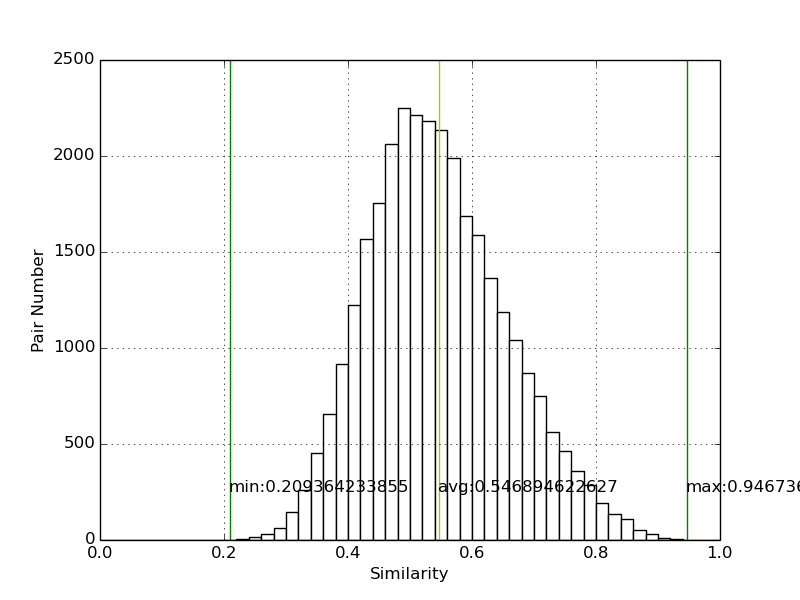
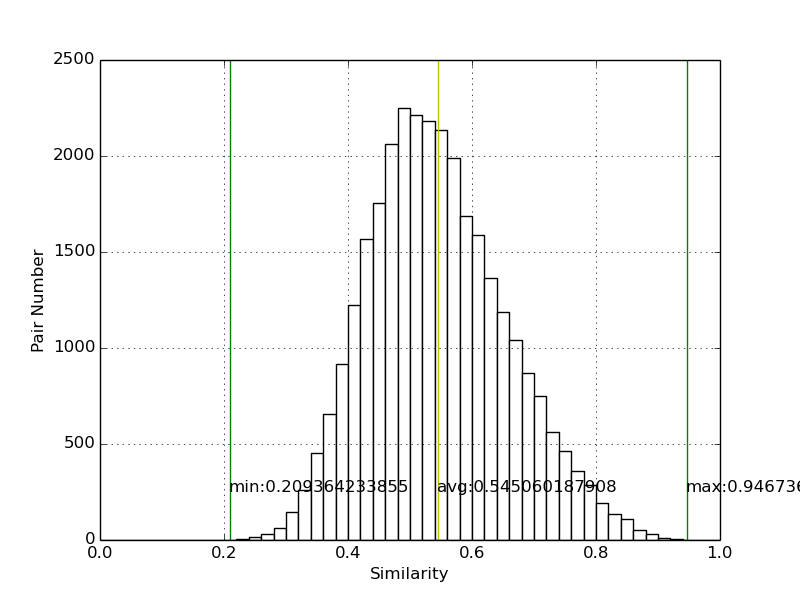
similarity distribution

Changed region(s): [[0.5312, 0.12, 0.7812, 0.9]]

diff --git a/vec_util/ingredient_vectors.py b/vec_util/ingredient_vectors.py
@@ -1,20 +1,41 @@
+#system module
 import numpy as np
 import os
 import sys
 from collections import defaultdict
+from gensim.models import word2vec as w2v
+from gensim import models
+from sklearn.metrics.pairwise import cosine_similarity
+from scipy.spatial.distance import dice
+from scipy.spatial.distance import pdist,squareform
+#local module
 sys.path.append('../vec_util/')
 from matrix import get_common_ingr_matrix
-from plotting import plot_similarity_by_category
-
+from plotting import plot_similarity_by_category,plot_similarity_distribution
+import pickle
+import Queue
+from threading import Thread
 
 ingredient_file = os.path.realpath(os.path.join(os.getcwd(),'../data/ingredients_major.txt'))
 recipe_file = os.path.realpath(os.path.join(os.getcwd(),'../data/recipes_major.txt'))
 reci_ingr_matrix_file = os.path.realpath(os.path.join(os.getcwd(),'../data/reci_ingr_matrix.txt'))
-vec_file = ''
+
 similarity_matrix_file = os.path.realpath(os.path.join(os.getcwd(),'../data/similarity_matrix.txt'))
+normalized_similarity_matrix_file = os.path.realpath(os.path.join(os.getcwd(),'../data/normalized_similarity_matrix.txt'))
+cosine_similarity_matrix_file = os.path.realpath(os.path.join(os.getcwd(),'../data/cosine_similarity_matrix.txt'))
+angular_similarity_matrix_file = os.path.realpath(os.path.join(os.getcwd(),'../data/angular_similarity_matrix.txt'))
+
+ingredient_dict_file = os.path.realpath(os.path.join(os.getcwd(),'../data/ingredient_dict.pickle'))
+recipe_dict_file = os.path.realpath(os.path.join(os.getcwd(),'../data/recipe_dict.pickle'))
+
+best_vector_file = os.path.realpath(os.path.join(os.getcwd(),'../tune_size/model_10'))
+
 
 if not os.path.isfile(reci_ingr_matrix_file):
 	matrix_gen(ingredient_file, recipe_file)
+
+# if not os.path.isfile(cosine_similarity_matrix_file):
+# 	gensim_matrix_gen()
 
 #read recipe ingredient matrix (52375, 248) from file
 reci_ingr_matrix = np.genfromtxt(reci_ingr_matrix_file,
@@ -44,56 +65,202 @@ similarity_matrix = np.genfromtxt(similarity_matrix_file,
 		autostrip=True,skip_header=0)
 
 def main():
-	# avg_sim = cal_original_similarity()
-	# avg_sim_1 = recipe_level_similarity(1, 2)
-	# avg_sim_2 = recipe_level_similarity(20, 50)
-	# print avg_sim_1,avg_sim_2
-	# similarity_matrix_gen(similarity_matrix_file)
-	agv_similarity_by_category()
-	# print 'the average similarity among all ingredients:',avg_similarity_all()
+	save_angular_similarity_matrix()
 
-"""
-compute similarity between ingredients according to the recipes that contains them.
 
-"""
-def recipe_level_similarity(ingr_index_i,ingr_index_j):
-	i_recipes_indexes = np.where(reci_ingr_matrix[:,ingr_index_i] == 1)
-	j_recipes_indexes = np.where(reci_ingr_matrix[:,ingr_index_j] == 1)
-	# print i_recipes_indexes,j_recipes_indexes
-	sim_sum = 0
-	for i in i_recipes_indexes[0]:
-		for j in j_recipes_indexes[0]:
-			# sim_sum += common_ingr_matrix[i][j]
-			# print i,j
-			recipe_i = reci_ingr_matrix[i,:]
-			recipe_j = reci_ingr_matrix[j,:]
-			#dot product calculates how mnay ingredients recipe_i and recipe_j have in common
-			sim_sum += np.dot(recipe_i, recipe_j.T)
-			# print sim_sum
-			# break
-		# break
-	r_similarity = float(sim_sum)/(len(i_recipes_indexes[0])*len(j_recipes_indexes[0]))
-	#recipes contain i, recipes contain j, they share r_similarity ingredients on average
-	return r_similarity
+# def recipe_level_similarity(ingr_index_i,ingr_index_j):
+# 	"""
+# 	    compute the raw similarity between ingredients according to the recipes that contain them,
+# 	    by the formular
+# 	    .. math::
+# 	       sim(i,j) = \frac{1}{n_I}\frac{1}{n_J}\sum_{I_{R_i} \in I}\sum_{ I_{R_j} \in J} <I_{R_i},I_{R_j}>.
 
-def similarity_matrix_gen(similarity_matrix_file):
+# 	    Parameters
+# 	    ----------
+# 	    ingr_index_i : int
+# 	        the index of the first ingredient
+# 	    ingr_index_j : int
+# 	        the index of the second ingredient
+
+# 	    Returns
+# 	    -------
+# 	    r_similarity : double
+# 	        The raw similarity score between two ingredients.
+#     """
+
+# 	i_recipes_indexes = np.where(reci_ingr_matrix[:,ingr_index_i] == 1)
+# 	j_recipes_indexes = np.where(reci_ingr_matrix[:,ingr_index_j] == 1)
+# 	# print i_recipes_indexes,j_recipes_indexes
+# 	sim_sum = 0
+# 	for i in i_recipes_indexes[0]:
+# 		for j in j_recipes_indexes[0]:
+# 			recipe_i = reci_ingr_matrix[i,:]
+# 			recipe_j = reci_ingr_matrix[j,:]
+# 			#dot product calculates how mnay ingredients recipe_i and recipe_j have in common
+# 			sim_sum += np.dot(recipe_i, recipe_j.T)
+# 	r_similarity = float(sim_sum)/(len(i_recipes_indexes[0])*len(j_recipes_indexes[0]))
+# 	#recipes contain i, recipes contain j, they share (r_similarity) ingredients on average
+# 	return r_similarity
+
+# def save_recipe_dictionary():
+# 	"""
+# 		store a dictionary in file where 
+# 		the keys are indexes of recipes
+# 		and the item is the list of indexes of ingredients that the recipe contains
+# 	"""
+# 	recipe_dict = defaultdict(list)
+# 	for recipe_index in range(0,52375):
+# 		items = np.where(reci_ingr_matrix[recipe_index,:] == 1)
+# 		recipe_dict[recipe_index] = items[0]
+# 	with open(recipe_dict_file, 'wb') as handle_:
+# 		pickle.dump(recipe_dict, handle_)
+# 	handle_.close()
+
+# def save_ingredient_dictionary():
+# 	"""
+# 		store a dictionary as file where 
+# 		the keys are indexes of ingredients
+# 		and the item is the list of indexes of recipes that contain the ingredient
+# 	"""
+# 	ingredient_dict = defaultdict(list)
+# 	for ingredient_index in range(0,248):
+# 		items = np.where(reci_ingr_matrix[:,ingredient_index] == 1)
+# 		ingredient_dict[ingredient_index] = items[0]
+# 	with open(ingredient_dict_file, 'wb') as handle:
+# 		pickle.dump(ingredient_dict, handle)
+# 	handle.close()
+
+def save_normalized_similarity_matrix(similarity_matrix_file):
+	"""
+	    compute the raw similarity between ingredients according to the recipes that contain them,
+	    by the formular
+	    .. math::
+	       sim(i,j) = \frac{1}{n_I}\frac{1}{n_J}\sum_{I_{R_i} \in I}\sum_{ I_{R_j} \in J} <I_{R_i},I_{R_j}>.
+
+	    Parameters
+	    ----------
+	    ingr_index_i : int
+	        the index of the first ingredient
+	    ingr_index_j : int
+	        the index of the second ingredient
+
+	    Returns
+	    -------
+	    r_similarity : double
+	        The raw similarity score between two ingredients.
+    """
+
 	n_ingredients = len(ingr_all)
 	similarity_matrix = np.zeros((248,248))
-	for index_i in range(n_ingredients-1):
-		for index_j in range(index_i+1,n_ingredients):
-			similarity_matrix[index_i,index_j] = recipe_level_similarity(index_i,index_j)
-			similarity_matrix[index_j,index_i] = similarity_matrix[index_i,index_j]
-			print 'index_i:',index_i,'index_j:',index_j,'similarity:',similarity_matrix[index_i,index_j],similarity_matrix[index_j,index_i]
-			# break
+	result_queue = Queue.Queue()
+	jobs =[]
+	with open(recipe_dict_file, 'rb') as handle:
+		recipe_dict = pickle.load(handle)
+	# handle.close()
+	with open(ingredient_dict_file, 'rb') as handle_:
+		ingredient_dict = pickle.load(handle_)
+	handle_.close()
+	handle.close()
+	try:
+		for index_i in range(n_ingredients-1):
+			t = Thread(target=normalized_similarity_row, args=('thread'+str(index_i), \
+														index_i, \
+														n_ingredients, \
+														recipe_dict, \
+														ingredient_dict))
+			t.start()
+			jobs.append(t)
+	except:
+		print "error: unable to start thread"
+
+	for t in jobs:
+		t.join()
+
+	for _ in range(n_ingredients-1):
+		result_dict = result_queue.get()		
+		for key,value in result_dict.iteritems():
+			rest = [0]*(key+1)
+			matrix_row = rest + value
+			similarity_matrix[int(key),:] = matrix_row
+
+	similarity_matrix_symmetric = similarity_matrix + similarity_matrix.T #- np.diag(a.diagonal())
+	np.savetxt(similarity_matrix_file, similarity_matrix_symmetric,fmt='%.9f')
+
+def normalized_similarity_row(threadname,index_i,n_ingredients,recipe_dict,ingredient_dict):
+	sim_row = list()
+	for index_j in range(index_i+1,n_ingredients):
+		sim = normalized_similarity(recipe_dict,ingredient_dict,index_i,index_j)
+		sim_row.append(sim)
+		print threadname+': index_i: '+str(index_i)+' index_j: '+str(index_j)+' similarity: '+str(sim)+'\n'
 		# break
-	np.savetxt(similarity_matrix_file, similarity_matrix,fmt='%.9f')
-	# return avg_sim
+	result_queue.put({index_i:sim_row})
+	# return sim_row
 
-"""
-compute the average similarity among all 248 ingredients.
+def normalized_similarity(recipe_dict,ingredient_dict,ingr_index_i,ingr_index_j):
+	i_recipes_indexes = ingredient_dict[ingr_index_i]#[0]
+	j_recipes_indexes = ingredient_dict[ingr_index_j]#[0]
+	sim_sum = 0
+	for i in i_recipes_indexes:
+		for j in j_recipes_indexes:
+			ingredient_set_i = recipe_dict[i]
+			ingredient_set_j = recipe_dict[j]
+			sim = 2*len(set(ingredient_set_i) & set(ingredient_set_j))/float(len(ingredient_set_i)+len(ingredient_set_j))
+			sim_sum += sim
+	r_similarity = float(sim_sum)/(len(i_recipes_indexes)*len(j_recipes_indexes))
+	return r_similarity
 
-"""
+# def save_raw_similarity_matrix(similarity_matrix_file):
+# 	n_ingredients = len(ingr_all)
+# 	similarity_matrix = np.zeros((248,248))
+# 	for index_i in range(n_ingredients-1):
+# 		for index_j in range(index_i+1,n_ingredients):
+# 			similarity_matrix[index_i,index_j] = recipe_level_similarity(index_i,index_j)
+# 			similarity_matrix[index_j,index_i] = similarity_matrix[index_i,index_j]
+# 			print 'index_i:',index_i,'index_j:',index_j,'similarity:',similarity_matrix[index_i,index_j],similarity_matrix[index_j,index_i]
+# 		np.savetxt(similarity_matrix_file, similarity_matrix,fmt='%.9f')
+
+# def save_cosine_similarity_matrix():
+# 	model = models.Word2Vec.load_word2vec_format(best_vector_file, binary=False)
+# 	cosine_similarity_matrix = np.zeros((248,248))
+# 	for i in range(0,248):
+# 		for j in range(i+1,248):
+# 			cosine_similarity_matrix[i,j] = model.similarity(ingr_all[i], ingr_all[j])
+# 			cosine_similarity_matrix[j,i] = cosine_similarity_matrix[i,j]
+# 		# print 'ingredient i:',ingr_all[i],'ingredient j:',ingr_all[j],'similarity:',cosine_similarity_matrix[i,j]
+# 	np.savetxt(cosine_similarity_matrix_file, cosine_similarity_matrix,fmt='%.9f')
+# 	plot_similarity_distribution(similarity_matrix_file=cosine_similarity_matrix_file,
+# 											upper_lim=1,
+# 											lower_lim=-1,
+# 											interval=0.04)
+
+# #only for the distribution, the index of ingredients are different from others
+# def save_angular_similarity_matrix(): 
+# 	vec_data,ingr_names = get_vec_from_model(best_vector_file, 10)
+# 	angular_similarity_matrix = cosine_similarity(vec_data)
+# 	angular_similarity_matrix_bounded = 1 - np.arccos(angular_similarity_matrix)/np.pi
+# 	angular_similarity_matrix_bounded[np.isnan(angular_similarity_matrix_bounded)] = 1
+	
+# 	np.savetxt(angular_similarity_matrix_file, angular_similarity_matrix_bounded,fmt='%.9f')
+
+# 	mask = np.ones(angular_similarity_matrix_bounded.shape, dtype=bool)
+# 	np.fill_diagonal(mask, 0)
+# 	max_value = angular_similarity_matrix_bounded[mask].max()
+# 	min_value = angular_similarity_matrix_bounded.min()
+# 	avg_value = np.average(angular_similarity_matrix_bounded)
+# 	# print max_value,min_value,avg_value
+# 	plot_similarity_distribution(similarity_matrix_file=angular_similarity_matrix_file,
+# 											upper_lim=1,
+# 											lower_lim=0,
+# 											interval=0.02,
+# 											max_value=max_value,
+# 											min_value=min_value,
+# 											avg_value=avg_value)
+
 def avg_similarity_all():
+	"""
+		compute the average similarity among all 248 ingredients.
+
+	"""
 	n_ingredients = len(ingr_all)
 	# print n_ingredients #248
 	sim_tot = 0
@@ -104,11 +271,11 @@ def avg_similarity_all():
 	avg_sim = 2*float(sim_tot)/(n_ingredients*(n_ingredients-1))
 	return avg_sim
 
-"""
-compute the average similarity inside each food categories.
-
-"""
 def agv_similarity_by_category():
+	"""
+		compute the average similarity inside each food categories.
+
+	"""
 	category_dict = defaultdict(list)
 	similarities = list()
 	for i in range(248):
@@ -126,11 +293,19 @@ def agv_similarity_by_category():
 		print 'for',key,',the average ingredient similarity inside category is:',similarity_in_category
 		plot_similarity_by_category(category_dict.keys(),similarities)
 
+def similarity_in_cluster(cluster_items):
+	"""
+		Calculating similarity between ingredients
+	"""
+	sim_tot = 0
+	item_num = len(cluster_items[0])
+	# print item_num
+	for item_i in range(item_num):
+		for item_j in range(item_i+1,item_num):
+			sim_tot += similarity_by_name(cluster_items[0][item_i], cluster_items[0][item_j])
+	avg_sim = 2*float(sim_tot)/(item_num*(item_num-1))
+	return avg_sim
 
-
-"""
-routines for calculating similarity between ingredients
-"""
 def name2index(ingredient_name):
 	index = list(ingr_all).index(ingredient_name)
 	return index
@@ -141,17 +316,11 @@ def similarity_by_name(ingredient_name_i,ingredient_name_j):
 	similarity = similarity_matrix[index_i,index_j]
 	return similarity
 
-def similarity_in_cluster(cluster_items):
-	sim_tot = 0
-	item_num = len(cluster_items[0])
-	# print item_num
-	for item_i in range(item_num):
-		for item_j in range(item_i+1,item_num):
-			sim_tot += similarity_by_name(cluster_items[0][item_i], cluster_items[0][item_j])
-	avg_sim = 2*float(sim_tot)/(item_num*(item_num-1))
-	return avg_sim
-
 def calculate_similarity(pred,ingredients,n_clusters):
+	"""
+		Given the cluster predictions,
+		calculate the average similarity among ingredients in clusters
+	"""
 	# labels = np.row_stack((ingredients,pred))
 	# pred_uniq = np.unique(labels[1])
 	similarities = list()
@@ -174,8 +343,11 @@ def calculate_similarity(pred,ingredients,n_clusters):
 	avg = reduce(lambda x, y: x + y, similarities) / len(similarities)
 	return avg
 
+
 def get_vec_from_model(filename,size):
-	#size=parameter
+	"""
+		getting vector matrix from given file
+	"""
 	vec_data = np.genfromtxt(filename,
 		delimiter=' ',
     	dtype=None,
@@ -188,5 +360,8 @@ def get_vec_from_model(filename,size):
 		autostrip=True,skip_header=2)
 	return vec_data,ingr_names
 	
+def sort_vector_index():
+	pass
+
 if __name__ == "__main__":
 	main()
